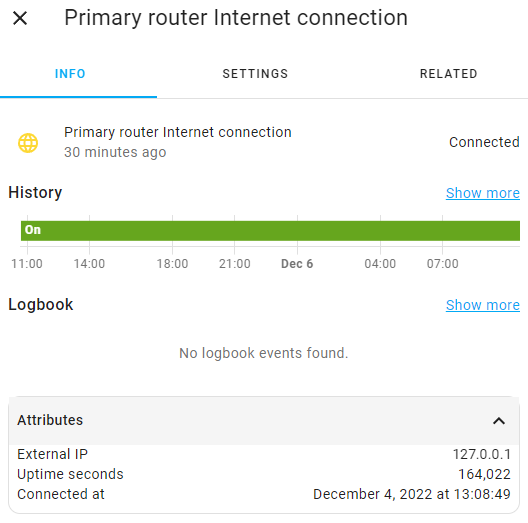
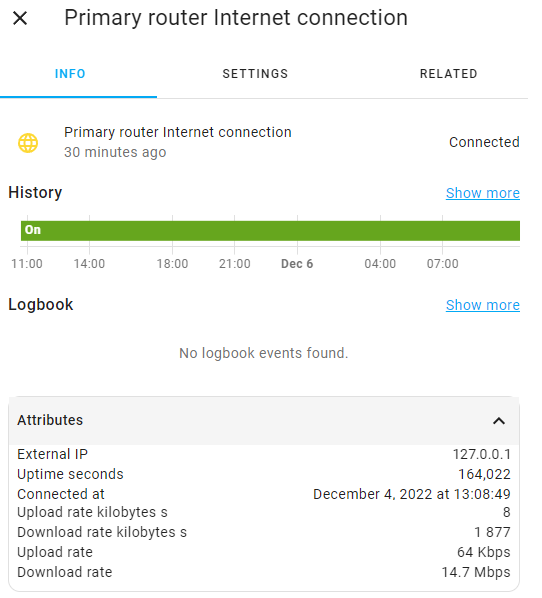
Updated documentation

diff --git a/docs/device-tracking.md b/docs/device-tracking.md
@@ -6,25 +6,31 @@ This feature is disabled by default and can be enabled in [advanced options](../
 
 Each tracked device exposes the following attributes:
 
-|    Attribute     |                                          Description                                                                     | Only when connected |
-|------------------|--------------------------------------------------------------------------------------------------------------------------|---------------------|
-| `source_type`    | `router` if the router-specific zones are disabled in [advanced options](../README.md#advanced-options), `gps` otherwise | No                  |
-| `ip`             | Device IP address                                                                                                        | Yes                 |
-| `mac`            | MAC address of the device                                                                                                | No                  |
-| `hostname`       | Device name according to the device itself                                                                               | No                  |
-| `connected_via`  | The name of the router through which the connection was made                                                             | Yes                 |
-| `interface_type` | Connection interface type (`5GHz`, `2.4GHz`, `LAN`)                                                                      | Yes                 |
-| `rssi`           | Signal strength for wireless connections                                                                                 | Yes                 |
-| `is_guest`       | Is the device connected to the guest network                                                                             | Yes                 |
-| `is_hilink`      | Is the device connected via HiLink                                                                                       | Yes                 |
-| `is_router`      | Is the device are router                                                                                                 | Yes                 |
-| `tags`           | List of [tags](device-tags.md#device-tags) that marked the device                                                        | No                  |
-| `filter_list`    | Blacklist, Whitelist or None (see [access control mode](controls.md#wi-fi-access-control-mode))                          | No                  |
-| `friendly_name`  | Device name provided by the router                                                                                       | No                  |
+|          Attribute          |                                          Description                                                                     | Only when connected |
+|-----------------------------|--------------------------------------------------------------------------------------------------------------------------|---------------------|
+| `source_type`               | `router` if the router-specific zones are disabled in [advanced options](../README.md#advanced-options), `gps` otherwise | No                  |
+| `ip`                        | Device IP address                                                                                                        | Yes                 |
+| `mac`                       | MAC address of the device                                                                                                | No                  |
+| `hostname`                  | Device name according to the device itself                                                                               | No                  |
+| `connected_via`             | The name of the router through which the connection was made                                                             | Yes                 |
+| `interface_type`            | Connection interface type (`5GHz`, `2.4GHz`, `LAN`)                                                                      | Yes                 |
+| `rssi`                      | Signal strength for wireless connections                                                                                 | Yes                 |
+| `is_guest`                  | Is the device connected to the guest network                                                                             | Yes                 |
+| `is_hilink`                 | Is the device connected via HiLink                                                                                       | Yes                 |
+| `is_router`                 | Is the device are router                                                                                                 | Yes                 |
+| `upload_rate_kilobytes_s`   | Current upload speed in kilobytes per second                                                                             | Yes                 |
+| `download_rate_kilobytes_s` | Current download speed in kilobytes per second                                                                           | Yes                 |
+| `upload_rate`               | Human-readable current upload speed                                                                                      | Yes                 |
+| `download_rate`             | Human-readable current download speed                                                                                    | Yes                 |
+| `tags`                      | List of [tags](device-tags.md#device-tags) that marked the device                                                        | No                  |
+| `filter_list`               | Blacklist, Whitelist or None (see [access control mode](controls.md#wi-fi-access-control-mode))                          | No                  |
+| `friendly_name`             | Device name provided by the router                                                                                       | No                  |
 
 ![Device tracker](images/device_tracker.png)
 
 Tracked device names, including routers, can be changed in [your mesh control interface](http://192.168.3.1/html/index.html#/devicecontrol), after which the component will update them in Home Assistant
+
+_Note: The `upload_rate_kilobytes_s`/`download_rate_kilobytes_s` are specified in kilobytes, not in kilobits. To convert it to kilobits per second, the value must be multiplied by 8. The values are updated at the interval specified in the [advanced options](../README.md#advanced-options)._
 
 An example of a markdown card that displays some of the information about the tracked device:
 

diff --git a/docs/sensors.md b/docs/sensors.md
@@ -83,10 +83,16 @@ _Note: Sensors for additional routers are located in their own devices._
 
 Each sensor exposes the following attributes:
 
-|     Attribute        |                        Description                          |
-|----------------------|-------------------------------------------------------------|
-| `external_ip`        | WAN IP address                                              |
-| `uptime_seconds`     | Connection uptime in seconds                                |
-| `connected_at`       | The date and time when the connection was last established  |
+|         Attribute           |                        Description                          |
+|-----------------------------|-------------------------------------------------------------|
+| `external_ip`               | WAN IP address                                              |
+| `uptime_seconds`            | Connection uptime in seconds                                |
+| `connected_at`              | The date and time when the connection was last established  |
+| `upload_rate_kilobytes_s`   | Current upload speed in kilobytes per second                |
+| `download_rate_kilobytes_s` | Current download speed in kilobytes per second              |
+| `upload_rate`               | Human-readable current upload speed                         |
+| `download_rate`             | Human-readable current download speed                       |
 
 _Note: The `connected_at` attribute value may not be entirely accurate if the clocks on the router and on the Home Assistant server are out of sync._
+
+_Note: The `upload_rate_kilobytes_s`/`download_rate_kilobytes_s` are specified in kilobytes, not in kilobits. To convert it to kilobits per second, the value must be multiplied by 8. The values are updated at the interval specified in the [advanced options](../README.md#advanced-options)._

diff --git a/README.md b/README.md
@@ -22,7 +22,7 @@ Home Assistant custom component for control Huawei mesh routers over LAN.
 
 - obtaining information about all routers and connected devices in the entire mesh network:
   - connected devices tracking and tagging
-  - device connection parameters (frequency, signal strength, guest and hilink devices)
+  - device connection parameters (frequency, signal strength, guest and hilink devices, upload/download rates)
   - name of the specific router to which the device is connected
   - number of connected devices (total and for each individual router)
 - Wi-Fi access management:
@@ -32,7 +32,7 @@ Home Assistant custom component for control Huawei mesh routers over LAN.
   - Wi-Fi access switch per client device
 - enabling and disabling access to specific sites
 - hardware and firmware version of the primary router
-- internet connection details
+- Internet connection details (IP address, status, upload/download rates)
 - uptime of each router
 - control of the NFC (OneHop Connect) on each router separately
 - control of the Fast Roaming function (802.11r)
